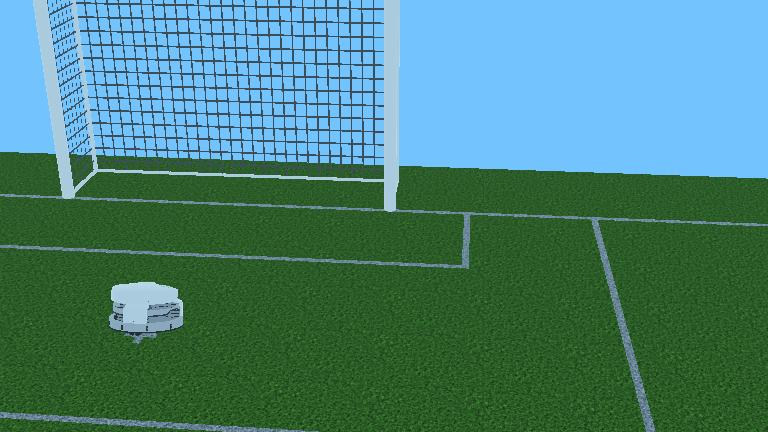
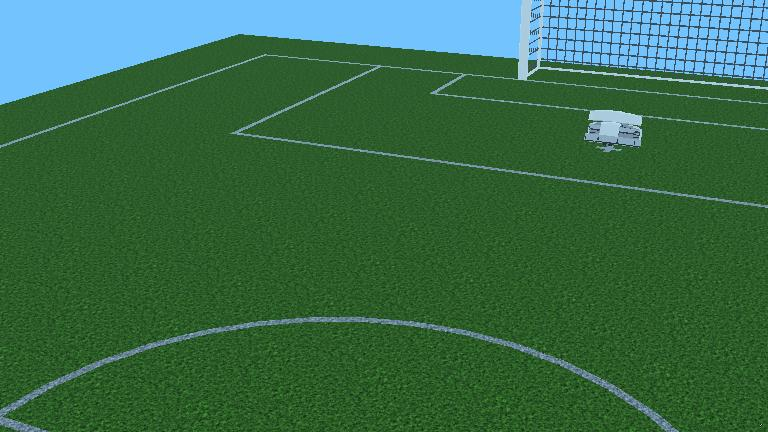
fix bugs | ball speed | jittery movement |

diff --git a/controllers/goalie_controller/goalie_controller.py b/controllers/goalie_controller/goalie_controller.py
@@ -25,76 +25,77 @@ class Strategist:
         self.goal_x = goal_x # The x-coordinate our goalie is standing on
         
     def calculate_interception(self, ball):
-        # If ball isn't moving along the X-axis, it's not a threat
-        if ball is None or ball['vx'] == 0:
-            return {'is_threat': False, 'target_y': 0.0}
+            if ball is None or ball['vx'] == 0:
+                return {'is_threat': False, 'target_y': 0.0}
+                
+            # NEW: Is the ball already behind the goalie? (Assuming goalie is at ~4.5)
+            if ball['x'] > self.goal_x:
+                return {'is_threat': False, 'target_y': 0.0}
+                
+            tti = (self.goal_x - ball['x']) / ball['vx']
             
-        # Calculate Time-to-Intercept (TTI): Time = Distance / Speed
-        tti = (self.goal_x - ball['x']) / ball['vx']
-        
-        # If TTI is negative, the ball is moving away from our goal
-        if tti < 0:
-            return {'is_threat': False, 'target_y': 0.0}
+            if tti < 0:
+                return {'is_threat': False, 'target_y': 0.0}
+                
+            target_y = ball['y'] + (ball['vy'] * tti)
             
-        # Predict the exact Y-coordinate where the ball crosses the goal line
-        target_y = ball['y'] + (ball['vy'] * tti)
-        
-        # Threat Check: Are those Y-coordinates within the goal posts?
-        # A standard RoboCup goal is about 1.4m wide (-0.7 to 0.7)
-        if abs(target_y) < 0.7:
-            return {'is_threat': True, 'target_y': target_y}
-        else:
-            return {'is_threat': False, 'target_y': 0.0}
+            if abs(target_y) < 0.7:
+                return {'is_threat': True, 'target_y': target_y}
+            else:
+                print("Can't intercept the ball. Idling")
+                return {'is_threat': False, 'target_y': 0.0}
 
 class Commander:
-    """Translates the target coordinate into smooth omni-wheel motor commands using a PD controller."""
+    """Translates target coordinates into 2D omni-wheel commands (X and Y)."""
     def __init__(self, robot):
         self.robot = robot
-        # Get the 3 omni-wheel motors of the Robotino
         self.m0 = robot.getDevice("wheel0_joint")
         self.m1 = robot.getDevice("wheel1_joint")
         self.m2 = robot.getDevice("wheel2_joint")
         
-        # Set all motors to velocity control mode
         for m in [self.m0, self.m1, self.m2]:
             if m is not None:
                 m.setPosition(float('inf'))
                 m.setVelocity(0.0)
                 
-        # PD Controller variables
-        self.prev_error = 0.0
-        self.Kp = 8.0  # Proportional gain: How aggressively to move
-        self.Kd = 2.0  # Derivative gain: How aggressively to brake/dampen
+        self.prev_error_y = 0.0
+        self.Kp_y = 8.0  
+        self.Kd_y = 2.0  
             
-    def move_to_y(self, current_y, target_y):
-        # Calculate distance to target
-        error = target_y - current_y
-        
-        # Stop if we are within 3cm of the target
-        if abs(error) < 0.03:
+    def move_to_target(self, current_x, current_y, target_y, home_x):
+        # 1. Y-axis PD Control (Lateral Strafing)
+        error_y = target_y - current_y
+        if abs(error_y) < 0.03:
             vy = 0.0
-            self.prev_error = 0.0 # Reset derivative when stopped
+            self.prev_error_y = 0.0 
         else:
-            # PD Control Math
-            derivative = error - self.prev_error
-            vy = (self.Kp * error) + (self.Kd * derivative)
-            self.prev_error = error
-            
-            # Cap the maximum strafing speed to prevent physics glitches
+            derivative = error_y - self.prev_error_y
+            vy = (self.Kp_y * error_y) + (self.Kd_y * derivative)
+            self.prev_error_y = error_y
             vy = max(min(vy, 4.0), -4.0) 
             
-        # Robotino Kinematics for purely lateral movement
-        v0 = vy * 10.0
-        v1 = -vy * 5.0
-        v2 = -vy * 5.0
+        # 2. X-axis P Control (Stay on the goal line!)
+        error_x = home_x - current_x
         
-        # Send speeds to motors, capped at max rad/s
+        # Add a deadzone so it doesn't panic over 1 millimeter drops
+        if abs(error_x) < 0.03:
+            vx = 0.0
+        else:
+            # FIX: Flipped the sign to negative to cure the positive feedback loop!
+            vx = -error_x * 4.0 
+            vx = max(min(vx, 2.0), -2.0)
+
+        # 3. Full 2D Robotino Kinematics
+        v0 = vy * 10.0
+        v1 = (vx * 8.66) - (vy * 5.0)
+        v2 = (-vx * 8.66) - (vy * 5.0)
+        
         if self.m0: self.m0.setVelocity(max(min(v0, 6.0), -6.0))
         if self.m1: self.m1.setVelocity(max(min(v1, 6.0), -6.0))
         if self.m2: self.m2.setVelocity(max(min(v2, 6.0), -6.0))
 
 class AutoShooter:
-    """Instantly teleports and shoots the ball when Spacebar is pressed."""
+    """Instantly teleports the ball, waits for physics to settle, and shoots."""
     def __init__(self, supervisor, ball_node):
         self.supervisor = supervisor
         self.ball_node = ball_node
@@ -104,24 +105,38 @@ class AutoShooter:
         
         if self.ball_node:
             self.trans_field = self.ball_node.getField("translation")
+            
+        # Add variables to handle the delay
+        self.frames_until_shoot = -1
+        self.pending_vy = 0.0
         
     def check_and_shoot(self):
         if not self.ball_node: return
         
+        # 2. Check if we are waiting to apply velocity
+        if self.frames_until_shoot > 0:
+            self.frames_until_shoot -= 1
+            return
+        elif self.frames_until_shoot == 0:
+            # Physics has settled, NOW we apply the velocity
+            # Assuming your robot is at X=4.5. If it's at -4.5, change 5.0 to -5.0!
+            self.ball_node.setVelocity([10.0, self.pending_vy, 0.0, 0.0, 0.0, 0.0])
+            print(f"💥 SHOT FIRED! Speed: 10.0m/s | Angle Velocity: {self.pending_vy:.2f}m/s", flush=True)
+            self.frames_until_shoot = -1 # Reset the timer
+            return
+
+        # 1. Listen for the Spacebar
         key = self.keyboard.getKey()
-        
-        # ASCII 32 is the spacebar
         if key == ord(' '):
-            self.trans_field.setSFVec3f([0.0, 0.0, 0.2])
+            # Teleport the ball and reset its momentum
+            self.trans_field.setSFVec3f([0.0, 0.0, 0.1])
             self.ball_node.resetPhysics()
             
-            random_vy = random.uniform(-1.5, 1.5)
+            # Calculate the angle but DO NOT apply it yet
+            self.pending_vy = random.uniform(-1.5, 1.5)
             
-            # Assuming your robot is at positive X (e.g. 4.5). 
-            # If your robot is at negative X (-4.5), change 5.0 to -5.0!
-            self.ball_node.setVelocity([5.0, random_vy, 0.0, 0.0, 0.0, 0.0])
-            
-            print(f"💥 SHOT FIRED! Speed: 5.0m/s | Angle Velocity: {random_vy:.2f}m/s", flush=True)
+            # Tell the script to wait 2 simulation frames before firing
+            self.frames_until_shoot = 2
 
 def main():
     robot = Supervisor()
@@ -145,11 +160,16 @@ def main():
         
         target = strategist.calculate_interception(ball_state)
         
-        current_y = robot_node.getPosition()[1]
+        # 2. Act
+        current_pos = robot_node.getPosition()
+        current_x = current_pos[0]
+        current_y = current_pos[1]
+        
         if target['is_threat']:
-            commander.move_to_y(current_y, target['target_y'])
+            commander.move_to_target(current_x, current_y, target['target_y'], goal_x)
         else:
-            commander.move_to_y(current_y, 0.0) 
+            commander.move_to_target(current_x, current_y, 0.0, goal_x)
+        current_y = robot_node.getPosition()[1]
 
 if __name__ == "__main__":
     main()
